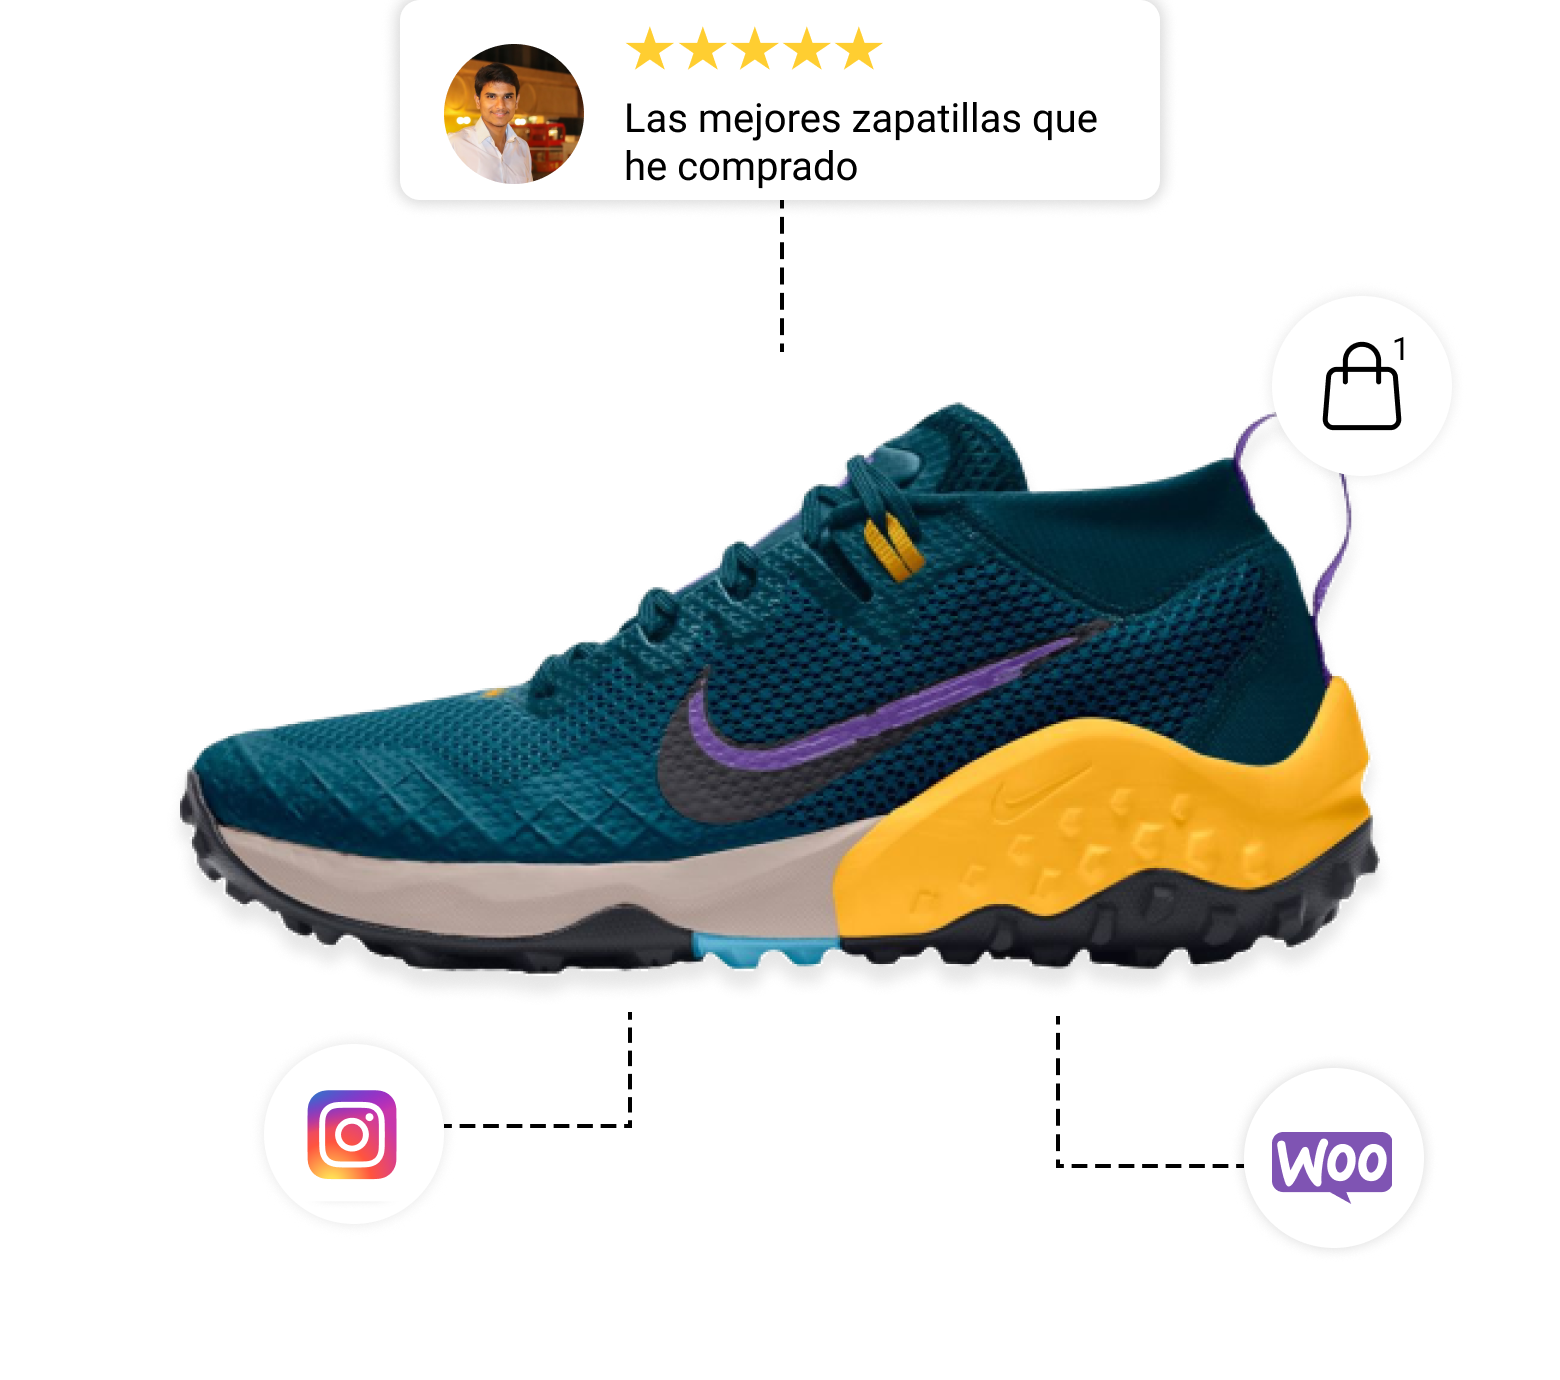
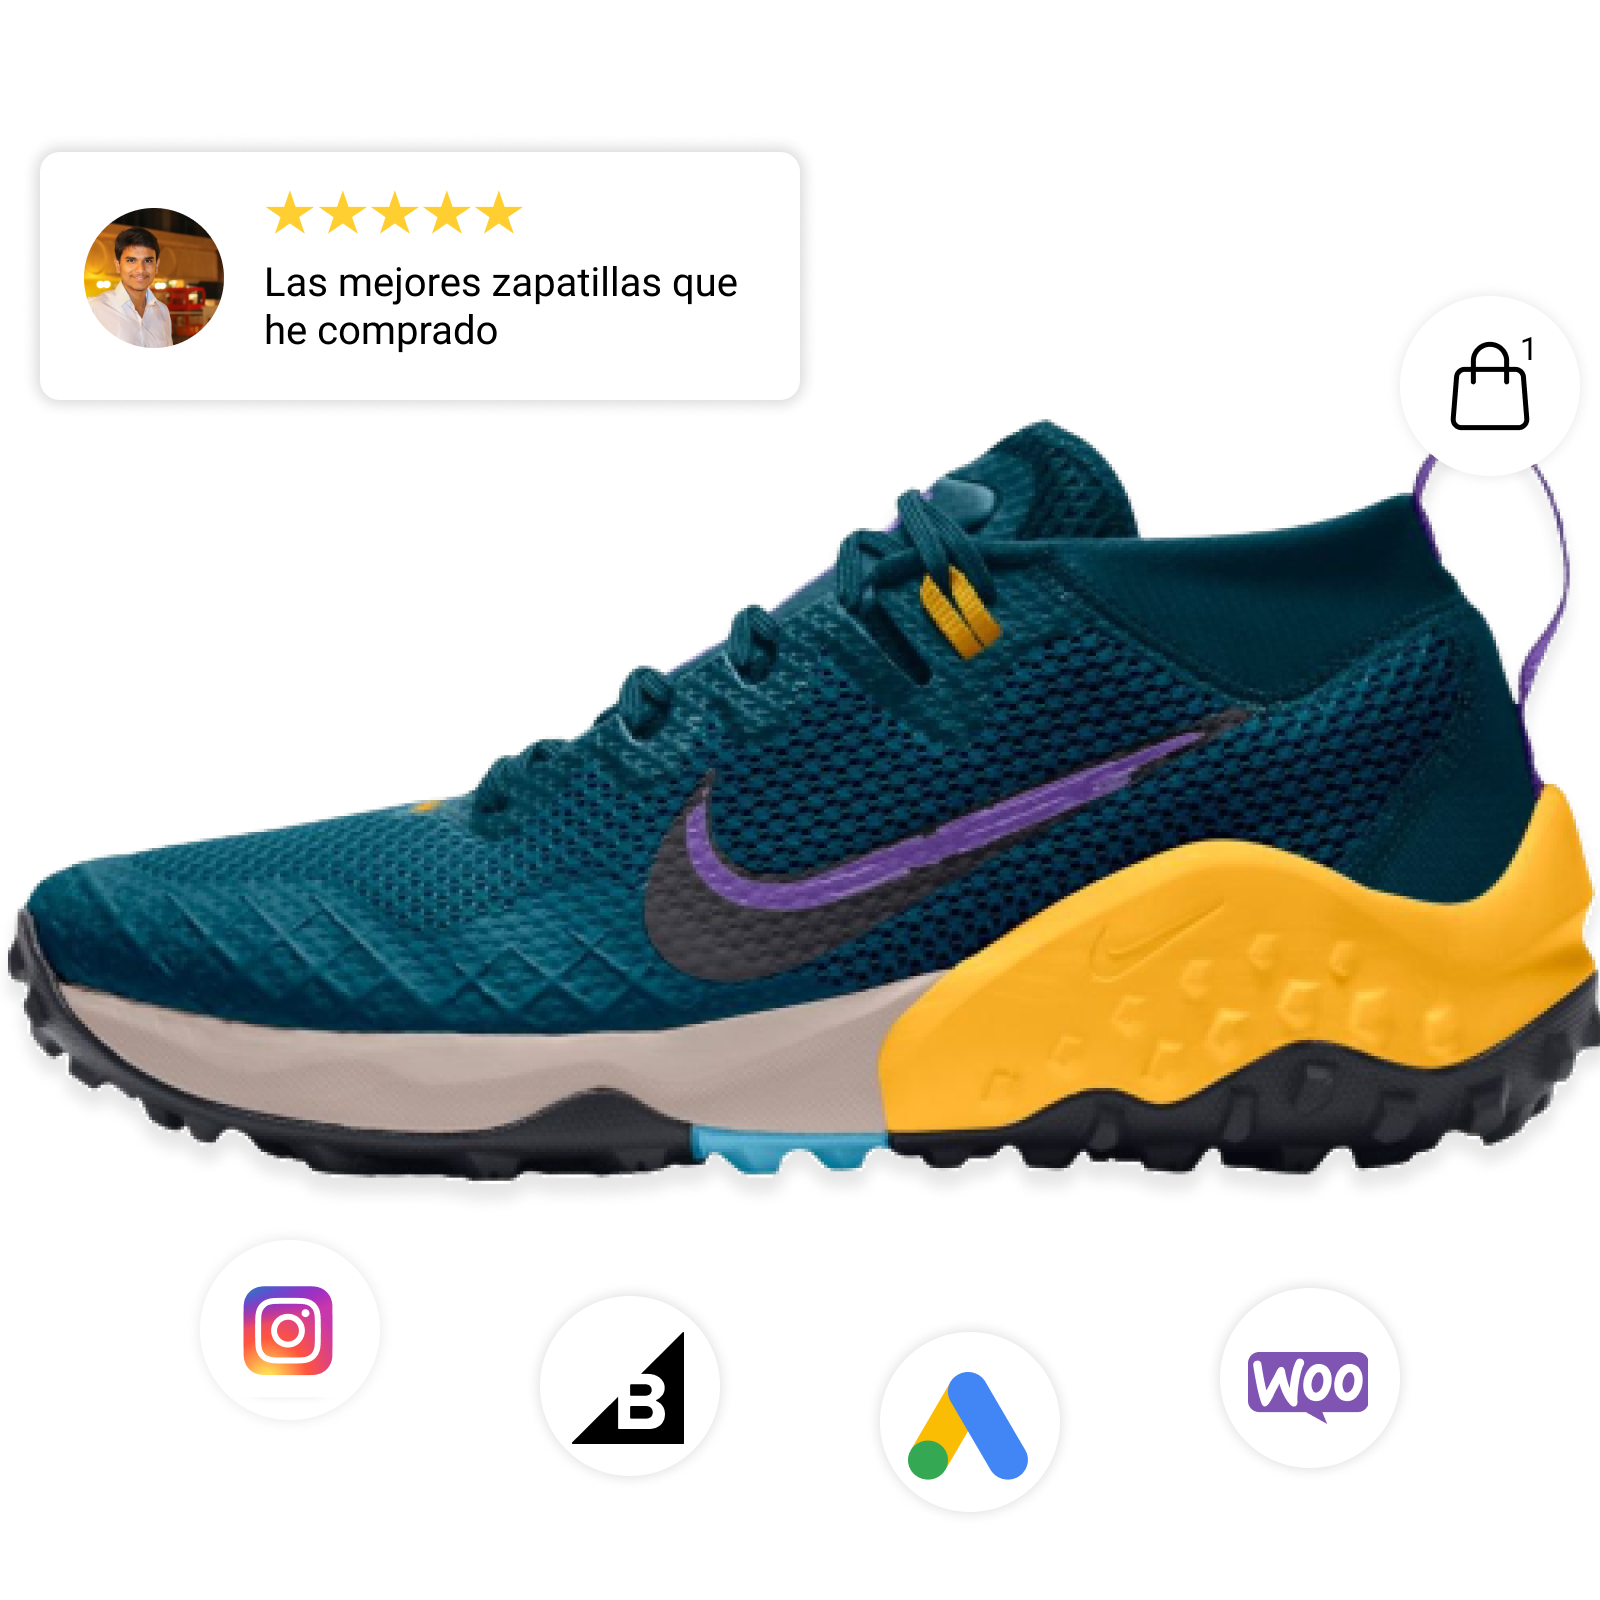
Hero Image changed

diff --git a/pages/index.js b/pages/index.js
@@ -11,7 +11,7 @@ const Home = ({data}) => {
     <div>
       <HeadComponent title={head.title} description={head.description} />
       <Layout>
-      <section className="home_hero overflow-x-hidden grid items-center grid-cols-1 md:grid-cols-2 gap-12 relative px-6 md:px-12 lg:px-16 min-h-[110vh]">
+      <section className="home_hero overflow-x-hidden grid items-center grid-cols-1 md:grid-cols-2 gap-12 relative px-6 md:px-12 lg:px-16 overflow-hidden py-16 md:py-24 lg:py-36">
             <div className="pt-0 md:pt-20 row-start-2 row-end-3 md:row-start-1 md:row-end-2 ">
                 <h1 className="text-3xl md:text-4xl lg:text-5xl	font-bold uppercase ">{heroContent.title.first}<br/>
                 {heroContent.title.second}</h1>
@@ -25,19 +25,19 @@ const Home = ({data}) => {
                   </Link>
                    </div>
             </div>
-            <div className="hidden md:block pt-16 md:pt-0 col-start-1 md:col-start-2 col-end-2 md:col-end-3 ">
+            <div className="hidden md:block pt-16 md:pt-0 col-start-1 md:col-start-2 col-end-2 md:col-end-3 justify-self-center	">
               <Image src="/assets/hero-image.png" layout="intrinsic" width="600" height="420" />
               
             </div>
-            <div className="block md:hidden pt-16 md:pt-0 col-start-1 md:col-start-2 col-end-2 md:col-end-3 "> 
-                  <Image src="/assets/home-hero-mobile.png" width={390} height={345} layout="intrinsic" />
+            <div className="block md:hidden pt-16 md:pt-0 col-start-1 md:col-start-2 col-end-2 md:col-end-3 justify-self-center	"> 
+                  <Image src="/assets/home-hero-mobile.png" width={400} height={400} layout="intrinsic" />
                 </div>
-            <span className="home_hero-square1 bg-yellow-400"></span>
+            <span className="home_hero-square1 bg-yellow-700"></span>
             <span className="home_hero-square2 bg-primary"></span>
         </section>
 
 
-        <section className="home_service grid grid-cols-1 px-6 md:px-12 lg:px-16 pt-36 pb-16 gap-y-36 relative">
+        <section className="home_service grid grid-cols-1 px-6 md:px-12 lg:px-16 pt-24 lg:pt-36 pb-16 gap-y-36 relative">
           {
             home_services.map((service, i)=> (
               <div  key={i} className={`home_service--${i} grid grid-cols-1 md:grid-cols-2 gap-8 justify-items-center	`}>

diff --git a/styles/Home/_home_hero.scss b/styles/Home/_home_hero.scss
@@ -4,9 +4,10 @@
         display: block;
         z-index: -1;
         top:450px;
-        left: 50px;
-        width: 500px;
-        height: 300px;
+        left: 0;
+        right: 0;
+        width: 700px;
+        height:600px;
 
 
         @screen md{
@@ -24,7 +25,7 @@
 
         top: 0;
         right: 0;
-        width: 400px;
+        width: 700px;
         height: 450px;
 
         @screen md {
